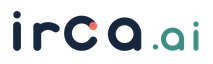
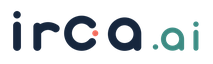
fix: clarify Track A monochrome o

Changed region(s): [[0.3944, 0.3438, 0.4789, 0.6562]]

diff --git a/tests/brand/test_brand_assets.py b/tests/brand/test_brand_assets.py
@@ -72,6 +72,32 @@ class BrandContractTest(unittest.TestCase):
             self.assertTrue(path.is_file(), path)
             audit_svg(path)
 
+    def test_track_a_mono_o_renders_with_a_distinct_action_point(self):
+        source = Path("docs/brand/candidates/track-a/wordmark-mono.svg")
+        with TemporaryDirectory() as directory:
+            destination = Path(directory) / "wordmark-mono-64.png"
+            render_svg_png(source, destination, 213, 64)
+            with Image.open(destination).convert("RGBA") as image:
+                alpha = image.getchannel("A")
+                ink_rows = [
+                    y for y in range(12, 55) if alpha.getpixel((93, y)) >= 128
+                ]
+
+            runs = []
+            run_start = previous = ink_rows[0]
+            for y in ink_rows[1:]:
+                if y != previous + 1:
+                    runs.append((run_start, previous))
+                    run_start = y
+                previous = y
+            runs.append((run_start, previous))
+
+            self.assertEqual(len(runs), 3, runs)
+            open_gaps = [
+                right[0] - left[1] - 1 for left, right in zip(runs, runs[1:])
+            ]
+            self.assertTrue(all(1 <= gap <= 4 for gap in open_gaps), open_gaps)
+
     def test_audit_png_requires_exact_rgba_size_with_transparency(self):
         with TemporaryDirectory() as directory:
             path = Path(directory) / "opaque.png"

diff --git a/docs/brand/candidates/track-a/CONSTRUCTION.md b/docs/brand/candidates/track-a/CONSTRUCTION.md
@@ -13,29 +13,29 @@ Track A redraws the recognizable lowercase `iroa.ai`, open loop, and navy/coral/
 ## Shared open-loop geometry
 
 - Symbol loop center: `(80, 80)`. Path radius: `48` units. Stroke: `24` units.
-- The opening is centered on the right axis. Terminal centerlines sit at `-32 degrees` and `+32 degrees`, producing a `64-degree` opening and a `296-degree` drawn arc.
-- The upper terminal carries the only coral action point. Its radius is `12.5` units, `104.17%` of the 12-unit round terminal radius, so coral fully replaces the navy cap without a dark fringe.
-- The wordmark `o` reuses the exact symbol path and terminal coordinates under `translate(166 29.5) scale(.8)`. Its effective center is `(230, 93.5)`, path radius `38.4`, stroke `22`, and action-point radius `11.458` units. The larger pre-scale stroke is the optical correction that keeps the smaller loop equal in weight to the main letters.
-- The lower terminal remains the base stroke color. No second teal endpoint or coral punctuation is used.
+- The opening is centered on the right axis. Terminal centerlines sit at `-40 degrees` and `+40 degrees`, producing an `80-degree` opening and a `280-degree` drawn arc.
+- The only coral action point is centered at `(128, 80)` inside that opening. Its 10.5-unit radius is `87.5%` of the 12-unit round terminal radius, so the point completes the `o` rhythm without joining either terminal.
+- The wordmark `o` reuses the exact symbol path and point coordinates under `translate(166 29.5) scale(.8)`. Its effective center is `(230, 93.5)`, path radius `38.4`, stroke `22`, and action-point radius `8.4` units. The larger pre-scale stroke is the optical correction that keeps the smaller loop equal in weight to the main letters.
+- Both terminals remain the base stroke color. No second colored endpoint or coral punctuation is used.
 
 ## Spacing and clear space
 
 - Built-in symbol margin is 20 units at the loop extrema. External clear space is at least one symbol stroke (`24` units, or `0.15 x` the symbol viewBox).
 - Wordmark external clear space is at least one main stroke (`22` units) on all sides. The viewBox includes 37.5 units to the left, 31 units above the `i` dot, 40.5 units to the right, and 37 units below the baseline terminals.
-- Key horizontal optical gaps are 12.6 units between the `r` terminal and `o`, 30 units between the visible `o` action point and `a`, 32.5 units between the main `a` and period, and 8 units between the period and `.ai` bowl.
+- Key horizontal optical gaps are 12.6 units between the `r` terminal and `o`, 27.2 units between the visible `o` action point and `a`, 32.5 units between the main `a` and period, and 8 units between the period and `.ai` bowl.
 
 ## Small-size optical behavior
 
-The master contains the small-size compensation: a 4.17% oversized action point, a 64-degree opening, a 20-unit internal symbol margin, and round terminals. Candidate PNGs use Lanczos downsampling without per-export shape changes.
+The master contains the small-size compensation: a reduced centered action point, an 80-degree opening, a 20-unit internal symbol margin, and round terminals. Candidate PNGs use Lanczos downsampling without per-export shape changes.
 
-| Symbol output | Scale | Effective stroke | Action-point diameter | Clear opening between terminal silhouettes | Built-in edge margin |
+| Symbol output | Scale | Effective stroke | Action-point diameter | Clear gap on each side of point | Built-in edge margin |
 |---:|---:|---:|---:|---:|---:|
-| 16 px | 0.10 | 2.40 px | 2.50 px | 2.64 px | 2.00 px |
-| 24 px | 0.15 | 3.60 px | 3.75 px | 3.96 px | 3.00 px |
-| 32 px | 0.20 | 4.80 px | 5.00 px | 5.27 px | 4.00 px |
-| 64 px | 0.40 | 9.60 px | 10.00 px | 10.55 px | 8.00 px |
+| 16 px | 0.10 | 2.40 px | 2.10 px | 1.03 px | 2.00 px |
+| 24 px | 0.15 | 3.60 px | 3.15 px | 1.55 px | 3.00 px |
+| 32 px | 0.20 | 4.80 px | 4.20 px | 2.07 px | 4.00 px |
+| 64 px | 0.40 | 9.60 px | 8.40 px | 4.13 px | 8.00 px |
 
-At 16 px the open gap remains larger than the combined stroke width and survives antialiasing. At 24 px the upper coral terminal and lower navy terminal remain directionally distinct. At 32 px and above the 24:22:14 stroke hierarchy resolves without counter closure.
+At 16 px the centered point closes the reading rhythm without filling the inner counter. At 24 px the two open gaps and coral action point become individually visible. At 32 px and above the 24:22:14 stroke hierarchy and three-part open-point silhouette resolve without counter closure.
 
 ## Color variants
 
